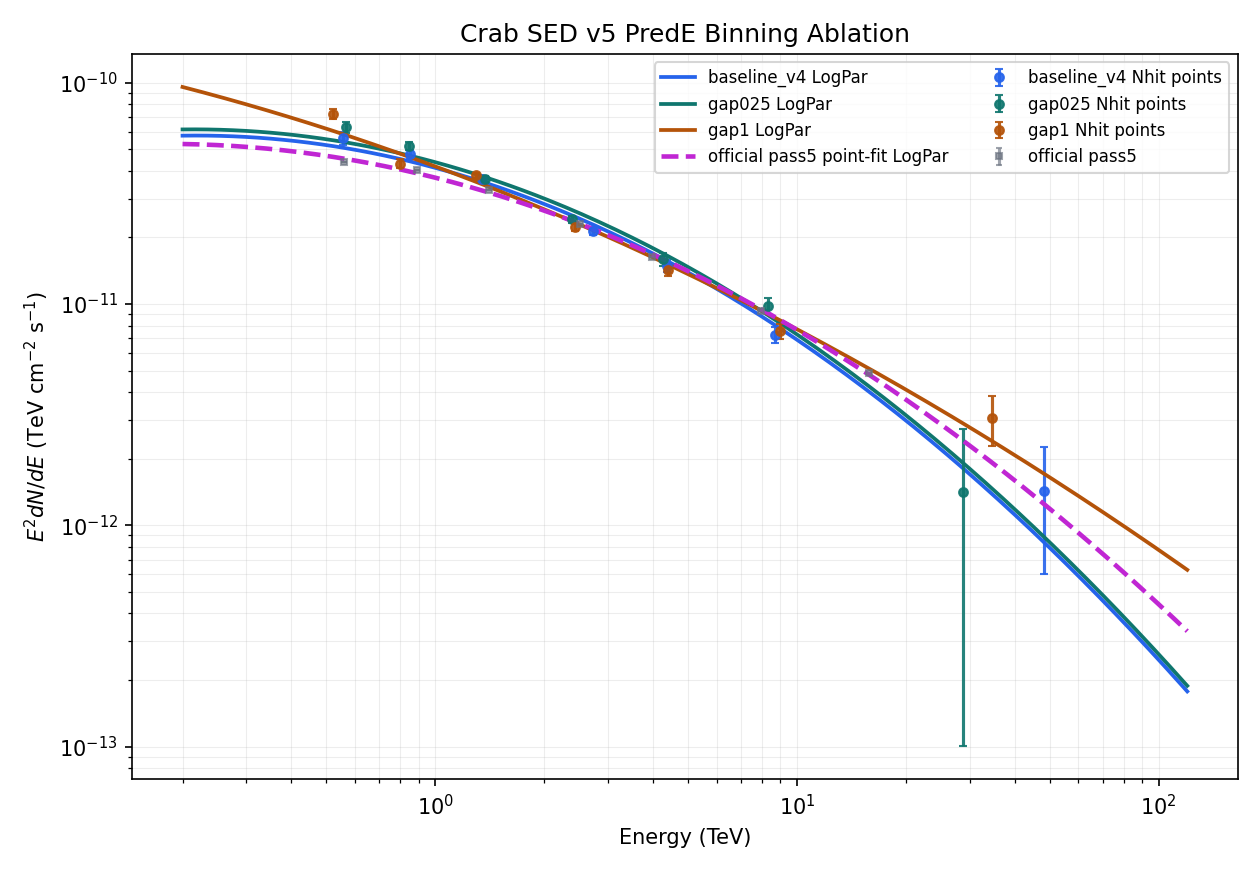
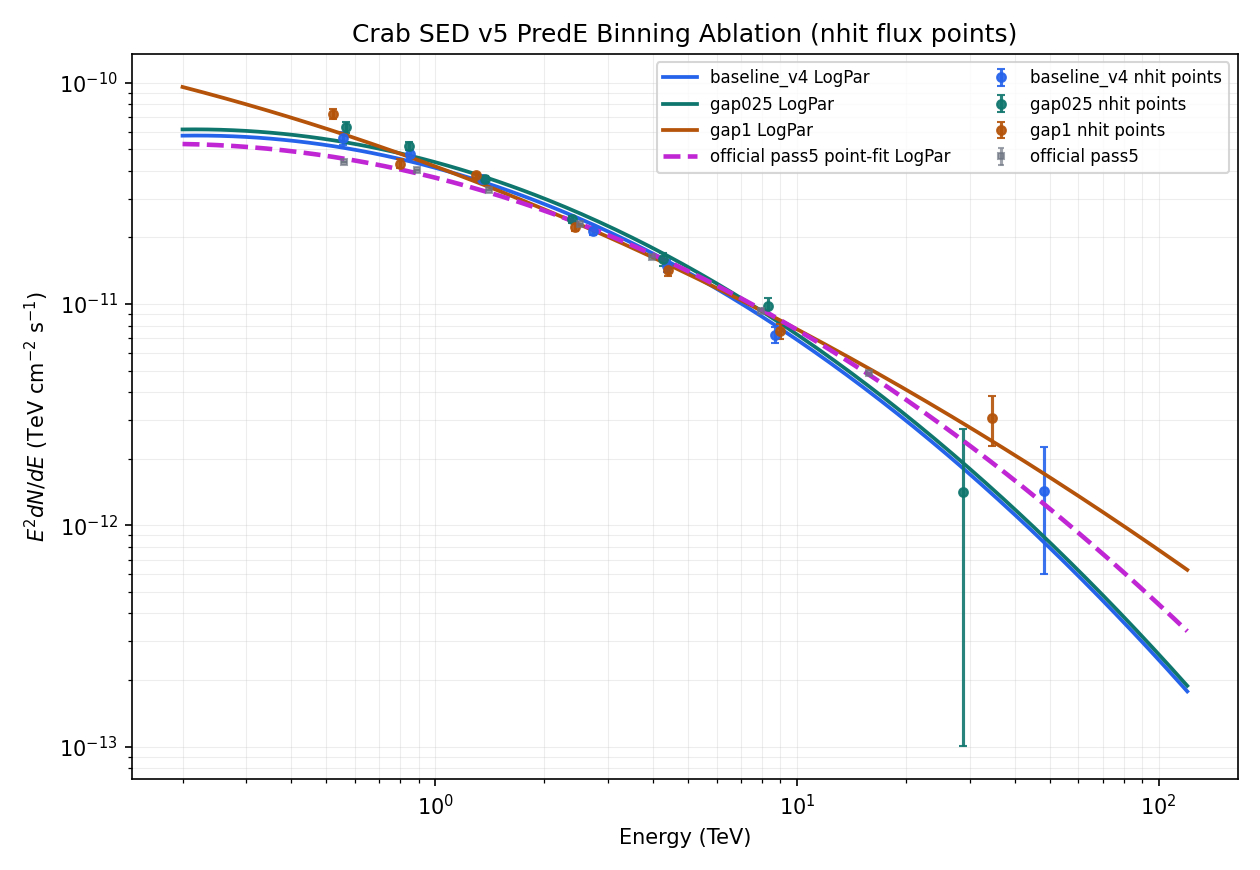
report: add PredE flux point diagnostics

Changed region(s): [[0.2786, 0.031, 0.8048, 0.1862], [0.7738, 0.0621, 0.8976, 0.1862], [0.4952, 0.0931, 0.5262, 0.1862]]

diff --git a/apply/report/crab_sed_v5_predbin_ablation_report.html b/apply/report/crab_sed_v5_predbin_ablation_report.html
@@ -28,7 +28,7 @@ code { background:#edf1f3; border-radius:4px; padding:1px 4px; }
 <body><main>
 <h1>Crab SED v5 PredE 分箱消融报告</h1>
 <p class="lead">对比 baseline_v4、gap025 与 gap1 三套 <code>log10(E_pred/GeV)</code> 分箱。gap025/gap1 使用独立 prefit MC selector，主 fit 排除 <code>&lt;2</code> 和 <code>&gt;=6</code> 尾箱；PSF 风险仅标注，不后验删除。</p>
-<p class="lead">Generated: 2026-06-30 15:35:24</p>
+<p class="lead">Generated: 2026-06-30 16:01:11</p>
 
 <section>
 <h2>汇总</h2>
@@ -41,8 +41,12 @@ code { background:#edf1f3; border-radius:4px; padding:1px 4px; }
 
 <section>
 <h2>SED Overlay</h2>
-<figure><img src="assets/v5-predbin-ablation/v5_predbin_ablation_sed_overlay.png" alt="SED overlay"></figure>
+<h3>Nhit-grouped flux points</h3>
+<figure><img src="assets/v5-predbin-ablation/v5_predbin_ablation_sed_overlay.png" alt="Nhit-grouped SED overlay"></figure>
+<h3>PredE-grouped flux points</h3>
+<figure><img src="assets/v5-predbin-ablation/v5_predbin_ablation_predE_sed_overlay.png" alt="PredE-grouped SED overlay"></figure>
 <div class="note">The official pass5 curve is an unweighted log-space LogPar fit to the plotted official pass5 SED points.</div>
+<div class="note">PredE-grouped flux points with non-positive fitted flux are retained in the diagnostics table below but omitted from the log-scale SED overlay.</div>
 </section>
 
 <section>
@@ -62,6 +66,27 @@ code { background:#edf1f3; border-radius:4px; padding:1px 4px; }
 <section>
 <h3>gap1</h3>
 <div class="table-wrap compact"><table><thead><tr><th>点</th><th>Nhit bin</th><th class="num">E_med [TeV]</th><th class="num">significance</th><th class="num">相对误差</th><th class="num">pass5 ratio</th></tr></thead><tbody><tr><td>2+3</td><td>[125,200)</td><td class="num">0.521</td><td class="num">19.7σ</td><td class="num">5.1%</td><td class="num">1.65</td></tr><tr><td>8+9+10</td><td>[200,300)</td><td class="num">0.801</td><td class="num">21.2σ</td><td class="num">4.7%</td><td class="num">1.05</td></tr><tr><td>14+15+16</td><td>[300,500)</td><td class="num">1.3</td><td class="num">34.1σ</td><td class="num">2.9%</td><td class="num">1.12</td></tr><tr><td>21+22</td><td>[500,800)</td><td class="num">2.44</td><td class="num">26.5σ</td><td class="num">3.8%</td><td class="num">0.947</td></tr><tr><td>27+28</td><td>[800,1100)</td><td class="num">4.41</td><td class="num">16.4σ</td><td class="num">6.1%</td><td class="num">0.947</td></tr><tr><td>33+34</td><td>[1100,2000)</td><td class="num">8.99</td><td class="num">13.3σ</td><td class="num">7.5%</td><td class="num">0.914</td></tr><tr><td>40+41</td><td>[2000,3000)</td><td class="num">34.7</td><td class="num">3.88σ</td><td class="num">25.8%</td><td class="num">0.628</td></tr></tbody></table></div><p class="caption-note">source: Stage G summary.csv / grouping=nhit</p>
+</section>
+
+</section>
+
+<section>
+<h2>Final PredE Flux Point Diagnostics</h2>
+<div class="note">These tables use each strategy's final Stage G <code>grouping=predE</code> flux points. <code>相对误差</code> is <code>E2_dnde_err / |E2_dnde|</code>; <code>significance</code> is the signed <code>E2_dnde / E2_dnde_err</code>. <code>pass5 ratio</code> uses log-log interpolation of the official pass5 SED points at the listed effective energy.</div>
+
+<section>
+<h3>baseline_v4</h3>
+<div class="table-wrap compact"><table><thead><tr><th>点</th><th>PredE bin</th><th class="num">E_med [TeV]</th><th class="num">significance</th><th class="num">相对误差</th><th class="num">pass5 ratio</th></tr></thead><tbody><tr><td>1</td><td>[2,2.5)</td><td class="num">0.332</td><td class="num">5.49σ</td><td class="num">18.2%</td><td class="num">1.07</td></tr><tr><td>2+14+26</td><td>[2.5,3)</td><td class="num">0.684</td><td class="num">26.5σ</td><td class="num">3.8%</td><td class="num">1.06</td></tr><tr><td>3+15+27</td><td>[3,3.25)</td><td class="num">1.28</td><td class="num">27σ</td><td class="num">3.7%</td><td class="num">1.24</td></tr><tr><td>16+28+40+52</td><td>[3.25,3.5)</td><td class="num">2.23</td><td class="num">27.1σ</td><td class="num">3.7%</td><td class="num">1.05</td></tr><tr><td>29+41+53+65</td><td>[3.5,3.75)</td><td class="num">3.85</td><td class="num">19.2σ</td><td class="num">5.2%</td><td class="num">0.935</td></tr><tr><td>30+42+54+66</td><td>[3.75,4.0)</td><td class="num">6.69</td><td class="num">12.1σ</td><td class="num">8.3%</td><td class="num">1.04</td></tr><tr><td>55+67</td><td>[4.0,4.25)</td><td class="num">12</td><td class="num">8.48σ</td><td class="num">11.8%</td><td class="num">1.37</td></tr><tr><td>68</td><td>[4.25,4.5)</td><td class="num">19</td><td class="num">3σ</td><td class="num">33.4%</td><td class="num">0.879</td></tr><tr><td>69+81</td><td>[4.5,4.75)</td><td class="num">34.1</td><td class="num">2.62σ</td><td class="num">38.1%</td><td class="num">0.723</td></tr><tr><td>82</td><td>[4.75,5.0)</td><td class="num">62.4</td><td class="num">0.997σ</td><td class="num">100.3%</td><td class="num">0.452</td></tr><tr><td>83</td><td>[5,6)</td><td class="num">92.3</td><td class="num">1.4σ</td><td class="num">71.5%</td><td class="num">1.78</td></tr></tbody></table></div><p class="caption-note">source: Stage G summary.csv / grouping=predE</p>
+</section>
+
+<section>
+<h3>gap025</h3>
+<div class="table-wrap compact"><table><thead><tr><th>点</th><th>PredE bin</th><th class="num">E_med [TeV]</th><th class="num">significance</th><th class="num">相对误差</th><th class="num">pass5 ratio</th></tr></thead><tbody><tr><td>2</td><td>[2,2.25)</td><td class="num">0.211</td><td class="num">-0.128σ</td><td class="num">779.8%</td><td class="num">-0.099</td></tr><tr><td>3+21</td><td>[2.25,2.5)</td><td class="num">0.344</td><td class="num">6.15σ</td><td class="num">16.3%</td><td class="num">1.03</td></tr><tr><td>4+22</td><td>[2.5,2.75)</td><td class="num">0.534</td><td class="num">14.8σ</td><td class="num">6.8%</td><td class="num">1.18</td></tr><tr><td>5+23+41</td><td>[2.75,3)</td><td class="num">0.824</td><td class="num">25.5σ</td><td class="num">3.9%</td><td class="num">1.19</td></tr><tr><td>6+24+42+60</td><td>[3,3.25)</td><td class="num">1.32</td><td class="num">28.1σ</td><td class="num">3.6%</td><td class="num">1.26</td></tr><tr><td>7+25+43+61+79</td><td>[3.25,3.5)</td><td class="num">2.23</td><td class="num">25.6σ</td><td class="num">3.9%</td><td class="num">1.06</td></tr><tr><td>26+44+62+80+98</td><td>[3.5,3.75)</td><td class="num">3.86</td><td class="num">18.9σ</td><td class="num">5.3%</td><td class="num">1.01</td></tr><tr><td>27+45+63+81+99</td><td>[3.75,4)</td><td class="num">6.61</td><td class="num">12σ</td><td class="num">8.3%</td><td class="num">1.03</td></tr><tr><td>64+82+100+118</td><td>[4,4.25)</td><td class="num">11.7</td><td class="num">8.49σ</td><td class="num">11.8%</td><td class="num">1.34</td></tr><tr><td>101+119</td><td>[4.25,4.5)</td><td class="num">20.3</td><td class="num">2.97σ</td><td class="num">33.7%</td><td class="num">0.78</td></tr><tr><td>102+120</td><td>[4.5,4.75)</td><td class="num">34.1</td><td class="num">2.62σ</td><td class="num">38.1%</td><td class="num">0.723</td></tr><tr><td>121</td><td>[4.75,5)</td><td class="num">62.4</td><td class="num">0.997σ</td><td class="num">100.3%</td><td class="num">0.452</td></tr><tr><td>122</td><td>[5,5.25)</td><td class="num">88.5</td><td class="num">1.42σ</td><td class="num">70.3%</td><td class="num">1.69</td></tr><tr><td>123</td><td>[5.25,5.5)</td><td class="num">134</td><td class="num">-0.725σ</td><td class="num">137.9%</td><td class="num">-8.68</td></tr></tbody></table></div><p class="caption-note">source: Stage G summary.csv / grouping=predE</p>
+</section>
+
+<section>
+<h3>gap1</h3>
+<div class="table-wrap compact"><table><thead><tr><th>点</th><th>PredE bin</th><th class="num">E_med [TeV]</th><th class="num">significance</th><th class="num">相对误差</th><th class="num">pass5 ratio</th></tr></thead><tbody><tr><td>2+8+14</td><td>[2,3)</td><td class="num">0.564</td><td class="num">30.5σ</td><td class="num">3.3%</td><td class="num">1.22</td></tr><tr><td>3+9+15+21+27+33</td><td>[3,4)</td><td class="num">1.8</td><td class="num">46σ</td><td class="num">2.2%</td><td class="num">1.05</td></tr><tr><td>10+16+22+28+34+40</td><td>[4,5)</td><td class="num">14.2</td><td class="num">10.1σ</td><td class="num">9.9%</td><td class="num">1.36</td></tr><tr><td>41</td><td>[5,6)</td><td class="num">101</td><td class="num">1.4σ</td><td class="num">71.5%</td><td class="num">1.54</td></tr></tbody></table></div><p class="caption-note">source: Stage G summary.csv / grouping=predE</p>
 </section>
 
 </section>

diff --git a/apply/report/build_v5_predbin_ablation_report.py b/apply/report/build_v5_predbin_ablation_report.py
@@ -318,7 +318,7 @@ def pass5_interp_flux_at(energy_tev: float) -> Optional[float]:
     return 10.0 ** pairs[-1][1]
 
 
-def plot_sed_overlay(strategies: Dict[str, Dict[str, object]], output_path: Path) -> None:
+def plot_sed_overlay(strategies: Dict[str, Dict[str, object]], output_path: Path, grouping: str = "nhit") -> None:
     plt = setup_matplotlib()
     fig, ax = plt.subplots(figsize=(8.4, 5.8), dpi=150)
     colors = {"baseline_v4": "#2563eb", "gap025": "#0f766e", "gap1": "#b45309"}
@@ -327,7 +327,7 @@ def plot_sed_overlay(strategies: Dict[str, Dict[str, object]], output_path: Path
         curve = logpar_flux(energy, payload.get("logpar", {}))
         if curve is not None:
             ax.plot(energy, curve, color=colors.get(name, "black"), linewidth=1.8, label=f"{name} LogPar")
-        rows = [row for row in payload.get("stage_g_rows", []) if row.get("grouping") == "nhit"]
+        rows = [row for row in payload.get("stage_g_rows", []) if row.get("grouping") == grouping]
         x: List[float] = []
         y: List[float] = []
         yerr: List[float] = []
@@ -335,7 +335,7 @@ def plot_sed_overlay(strategies: Dict[str, Dict[str, object]], output_path: Path
             ex = finite_float(row.get("effective_energy_tev"))
             ey = finite_float(row.get("E2_dnde"))
             ee = finite_float(row.get("E2_dnde_err"))
-            if ex is not None and ey is not None:
+            if ex is not None and ey is not None and ey > 0.0:
                 x.append(ex)
                 y.append(ey)
                 yerr.append(0.0 if ee is None else ee)
@@ -349,7 +349,7 @@ def plot_sed_overlay(strategies: Dict[str, Dict[str, object]], output_path: Path
                 capsize=2,
                 color=colors.get(name, "black"),
                 alpha=0.9,
-                label=f"{name} Nhit points",
+                label=f"{name} {grouping} points",
             )
     official = official_pass5_points()
     if official:
@@ -380,7 +380,7 @@ def plot_sed_overlay(strategies: Dict[str, Dict[str, object]], output_path: Path
     ax.set_yscale("log")
     ax.set_xlabel("Energy (TeV)")
     ax.set_ylabel(r"$E^2 dN/dE$ (TeV cm$^{-2}$ s$^{-1}$)")
-    ax.set_title("Crab SED v5 PredE Binning Ablation")
+    ax.set_title(f"Crab SED v5 PredE Binning Ablation ({grouping} flux points)")
     ax.grid(True, which="both", alpha=0.22, linewidth=0.5)
     ax.legend(fontsize=8, ncol=2)
     fig.tight_layout()
@@ -619,22 +619,22 @@ def fmt_sigma(value: object, digits: int = 2) -> str:
     return f"{number:.{digits}g}σ"
 
 
-def flux_point_table_from_rows(rows: Sequence[Dict[str, object]], source: str) -> str:
+def flux_point_table_from_rows(rows: Sequence[Dict[str, object]], source: str, bin_header: str = "Nhit bin") -> str:
     if not rows:
         return "<p>Stage G Nhit points pending.</p>"
     body: List[str] = []
     for row in rows:
         point_label = str(row.get("point") or row.get("group_label") or row.get("cell_ids") or "").replace(";", "+")
-        nhit_label = str(row.get("nhit_bin") or row.get("nhit_span") or row.get("group_label") or "")
+        bin_label = str(row.get("nhit_bin") or row.get("predE_bin") or row.get("nhit_span") or row.get("group_label") or "")
         energy = finite_float(row.get("E_med_TeV") or row.get("E_p50_TeV") or row.get("true_energy_p50_tev") or row.get("effective_energy_tev"))
         flux = finite_float(row.get("E2_dnde"))
         flux_err = finite_float(row.get("E2_dnde_err"))
         rel_err = finite_float(row.get("relative_error"))
         if rel_err is None:
-            rel_err = None if flux is None or flux <= 0.0 or flux_err is None else flux_err / flux
+            rel_err = None if flux is None or flux == 0.0 or flux_err is None else abs(flux_err / flux)
         significance = finite_float(row.get("significance"))
         if significance is None:
-            significance = None if rel_err is None or rel_err <= 0.0 else 1.0 / rel_err
+            significance = None if flux is None or flux_err is None or flux_err <= 0.0 else flux / flux_err
         pass5_ratio = finite_float(row.get("pass5_ratio") or row.get("ratio_to_pass5"))
         if pass5_ratio is None:
             pass5_flux = pass5_interp_flux_at(energy) if energy is not None else None
@@ -642,7 +642,7 @@ def flux_point_table_from_rows(rows: Sequence[Dict[str, object]], source: str) -
         body.append(
             "<tr>"
             f"<td>{html_escape(point_label)}</td>"
-            f"<td>{html_escape(nhit_label)}</td>"
+            f"<td>{html_escape(bin_label)}</td>"
             f"<td class=\"num\">{fmt_float(energy, 3)}</td>"
             f"<td class=\"num\">{fmt_sigma(significance, 3)}</td>"
             f"<td class=\"num\">{fmt_percent(rel_err, 1)}</td>"
@@ -651,7 +651,7 @@ def flux_point_table_from_rows(rows: Sequence[Dict[str, object]], source: str) -
         )
     return (
         '<div class="table-wrap compact"><table>'
-        "<thead><tr><th>点</th><th>Nhit bin</th><th class=\"num\">E_med [TeV]</th><th class=\"num\">significance</th><th class=\"num\">相对误差</th><th class=\"num\">pass5 ratio</th></tr></thead>"
+        f"<thead><tr><th>点</th><th>{html_escape(bin_header)}</th><th class=\"num\">E_med [TeV]</th><th class=\"num\">significance</th><th class=\"num\">相对误差</th><th class=\"num\">pass5 ratio</th></tr></thead>"
         f"<tbody>{''.join(body)}</tbody>"
         "</table></div>"
         f'<p class="caption-note">source: {html_escape(source)}</p>'
@@ -725,6 +725,38 @@ def nhit_flux_point_sections(strategies: Dict[str, Dict[str, object]]) -> str:
     return "".join(sections)
 
 
+def predE_flux_point_table(payload: Dict[str, object]) -> str:
+    rows = [
+        row
+        for row in payload.get("stage_g_rows", [])
+        if isinstance(row, dict) and row.get("grouping") == "predE"
+    ]
+    rows = sorted(rows, key=lambda row: interval_key(str(row.get("group_label") or "")))
+    normalized = [
+        {
+            **row,
+            "point": str(row.get("cell_ids") or "").replace(";", "+"),
+            "predE_bin": row.get("group_label"),
+        }
+        for row in rows
+    ]
+    return flux_point_table_from_rows(normalized, "Stage G summary.csv / grouping=predE", bin_header="PredE bin")
+
+
+def predE_flux_point_sections(strategies: Dict[str, Dict[str, object]]) -> str:
+    sections: List[str] = []
+    for name, payload in strategies.items():
+        sections.append(
+            f"""
+<section>
+<h3>{html_escape(name)}</h3>
+{predE_flux_point_table(payload)}
+</section>
+"""
+        )
+    return "".join(sections)
+
+
 def write_report(strategies: Dict[str, Dict[str, object]], figures: Dict[str, Path]) -> None:
     REPORT_HTML.parent.mkdir(parents=True, exist_ok=True)
     generated = time_now_string()
@@ -752,7 +784,9 @@ def write_report(strategies: Dict[str, Dict[str, object]], figures: Dict[str, Pa
 """
         )
     sed_fig = figures.get("sed_overlay")
-    sed_html = f'<figure><img src="{html_escape(relative_path(sed_fig))}" alt="SED overlay"></figure>' if sed_fig and sed_fig.exists() else "<p>SED overlay pending.</p>"
+    sed_html = f'<figure><img src="{html_escape(relative_path(sed_fig))}" alt="Nhit-grouped SED overlay"></figure>' if sed_fig and sed_fig.exists() else "<p>Nhit-grouped SED overlay pending.</p>"
+    predE_sed_fig = figures.get("predE_sed_overlay")
+    predE_sed_html = f'<figure><img src="{html_escape(relative_path(predE_sed_fig))}" alt="PredE-grouped SED overlay"></figure>' if predE_sed_fig and predE_sed_fig.exists() else "<p>PredE-grouped SED overlay pending.</p>"
     html_text = f"""<!doctype html>
 <html lang="zh-CN">
 <head>
@@ -796,14 +830,24 @@ code {{ background:#edf1f3; border-radius:4px; padding:1px 4px; }}
 
 <section>
 <h2>SED Overlay</h2>
+<h3>Nhit-grouped flux points</h3>
 {sed_html}
+<h3>PredE-grouped flux points</h3>
+{predE_sed_html}
 <div class="note">The official pass5 curve is an unweighted log-space LogPar fit to the plotted official pass5 SED points.</div>
+<div class="note">PredE-grouped flux points with non-positive fitted flux are retained in the diagnostics table below but omitted from the log-scale SED overlay.</div>
 </section>
 
 <section>
 <h2>Final Nhit Flux Point Diagnostics</h2>
 <div class="note">baseline_v4 uses the <code>conservative_7bin</code> final flux points from the migration report; gap025 and gap1 use their final Stage G <code>grouping=nhit</code> points. <code>相对误差</code> is <code>E2_dnde_err / E2_dnde</code>; <code>significance</code> is <code>excess/error</code> for baseline_v4 and equivalent flux/error for the Stage G rows. <code>pass5 ratio</code> uses log-log interpolation of the official pass5 SED points at the listed median/effective energy.</div>
 {nhit_flux_point_sections(strategies)}
+</section>
+
+<section>
+<h2>Final PredE Flux Point Diagnostics</h2>
+<div class="note">These tables use each strategy's final Stage G <code>grouping=predE</code> flux points. <code>相对误差</code> is <code>E2_dnde_err / |E2_dnde|</code>; <code>significance</code> is the signed <code>E2_dnde / E2_dnde_err</code>. <code>pass5 ratio</code> uses log-log interpolation of the official pass5 SED points at the listed effective energy.</div>
+{predE_flux_point_sections(strategies)}
 </section>
 
 <section>
@@ -844,8 +888,11 @@ def main() -> None:
     strategies = {name: load_strategy(name, config) for name, config in STRATEGIES.items()}
     figures: Dict[str, Path] = {}
     sed_overlay = ASSET_DIR / "v5_predbin_ablation_sed_overlay.png"
-    plot_sed_overlay(strategies, sed_overlay)
+    plot_sed_overlay(strategies, sed_overlay, grouping="nhit")
     figures["sed_overlay"] = sed_overlay
+    predE_sed_overlay = ASSET_DIR / "v5_predbin_ablation_predE_sed_overlay.png"
+    plot_sed_overlay(strategies, predE_sed_overlay, grouping="predE")
+    figures["predE_sed_overlay"] = predE_sed_overlay
     for name, payload in strategies.items():
         out = ASSET_DIR / f"{name}_psf_risk_heatmap.png"
         plot_psf_heatmap(payload, out)
